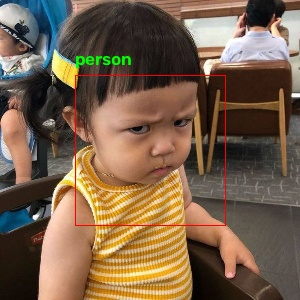
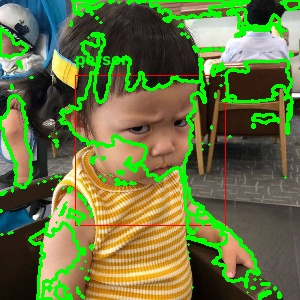
Contours + Automatic Bounding Box

diff --git a/main.py b/main.py
@@ -20,11 +20,7 @@ masked_result = cv2.bitwise_and(
     resized_image,
     mask=mask,
 )
-kernel = cv2.getStructuringElement(cv2.MORPH_ELLIPSE, (5, 5))
-dilated_mask = cv2.dilate(masked_result, kernel, iterations=1)
-morphology_result = cv2.morphologyEx(masked_result, cv2.MORPH_OPEN, kernel)
-Erosion = cv2.erode(masked_result, kernel, iterations=1)
-Closing  = cv2.morphologyEx(masked_result, cv2.MORPH_CLOSE, kernel)
+
 ####? Coordinates for rectangle ######
 #?
 #1. Create a copy of the resized image
@@ -74,6 +70,16 @@ gaussian_blur = cv2.GaussianBlur(gray_image, (5, 5), 0)
 median = cv2.medianBlur(gray_image, 3)
 
 ###?
+###
+kernel = cv2.getStructuringElement(cv2.MORPH_ELLIPSE, (5, 5))
+dilated_mask = cv2.dilate(mask, kernel, iterations=1)
+morphology_result = cv2.morphologyEx(mask, cv2.MORPH_OPEN, kernel)
+Erosion = cv2.erode(mask, kernel, iterations=1)
+Closing  = cv2.morphologyEx(mask, cv2.MORPH_CLOSE, kernel)
+contours, hierarchy = cv2.findContours(Closing, cv2.RETR_EXTERNAL, cv2.CHAIN_APPROX_SIMPLE)
+cv2.drawContours(copy_image, contours,-1, (0, 255, 0), 2)
+contour_areas = [cv2.contourArea(contour) for contour in contours]
+#####
 
 #####? Canny threshold( gradient strength brightness#######
 #
@@ -92,6 +98,9 @@ print("Size:", image.size)
 print("Dimensions:", image.ndim)
 print("Grayscale shape:", gray_image.shape)
 print("Grayscale udim:", gray_image.ndim)
+print("Contour areas:", contour_areas)
+print("mask:", mask.shape, mask.dtype)
+print("closing:", Closing.shape, Closing.dtype)
 
 ###* Important: Display the images in separate windows########
 #
@@ -109,12 +118,14 @@ print("Grayscale udim:", gray_image.ndim)
 # cv2.imshow("Rectangle", copy_image)
 # cv2.imshow("HSV Image", hsv_image)
 # cv2.imshow("Mask Image", mask)
-cv2.imshow("Dilated Mask", dilated_mask)
-cv2.imshow("Morphology Result", morphology_result)
-cv2.imshow("Erosion", Erosion)
+# cv2.imshow("Dilated Mask", dilated_mask)
+# cv2.imshow("Morphology Result", morphology_result)
+# cv2.imshow("Erosion", Erosion)
 cv2.imshow("Closing", Closing)
-cv2.imshow("Opening", Opening)
-cv2.imshow("Masked Result", masked_result)
+# cv2.imshow("Opening", Opening)
+# cv2.imshow("Masked Result", masked_result)
+# cv2.imshow("Contour Areas", contour_areas)
+cv2.imshow("Contours", copy_image)
 ######* save processed images to the output folder#######
 #
 saved = cv2.imwrite("output/copy.jpg", resized_image)
